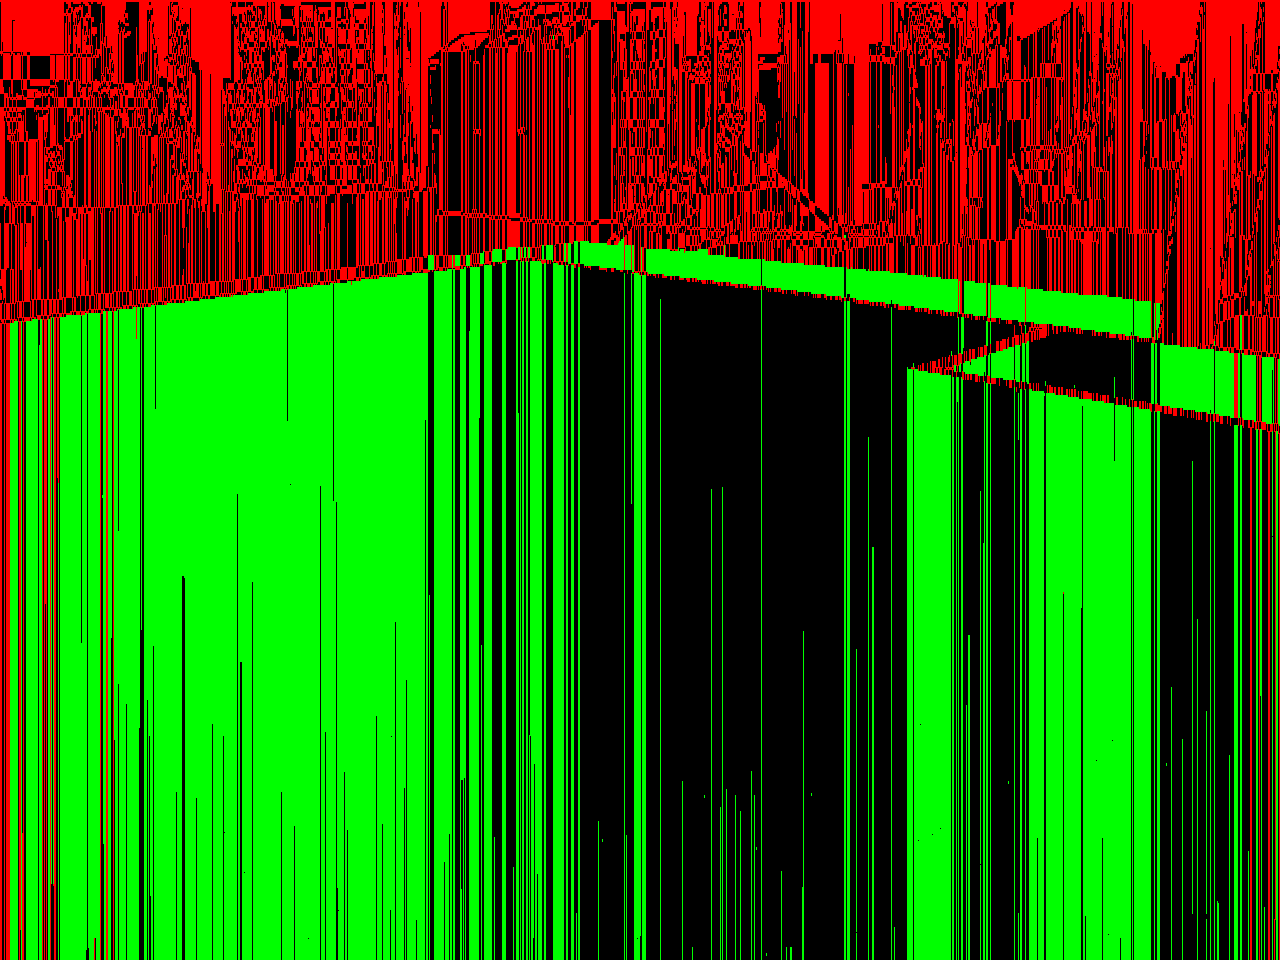
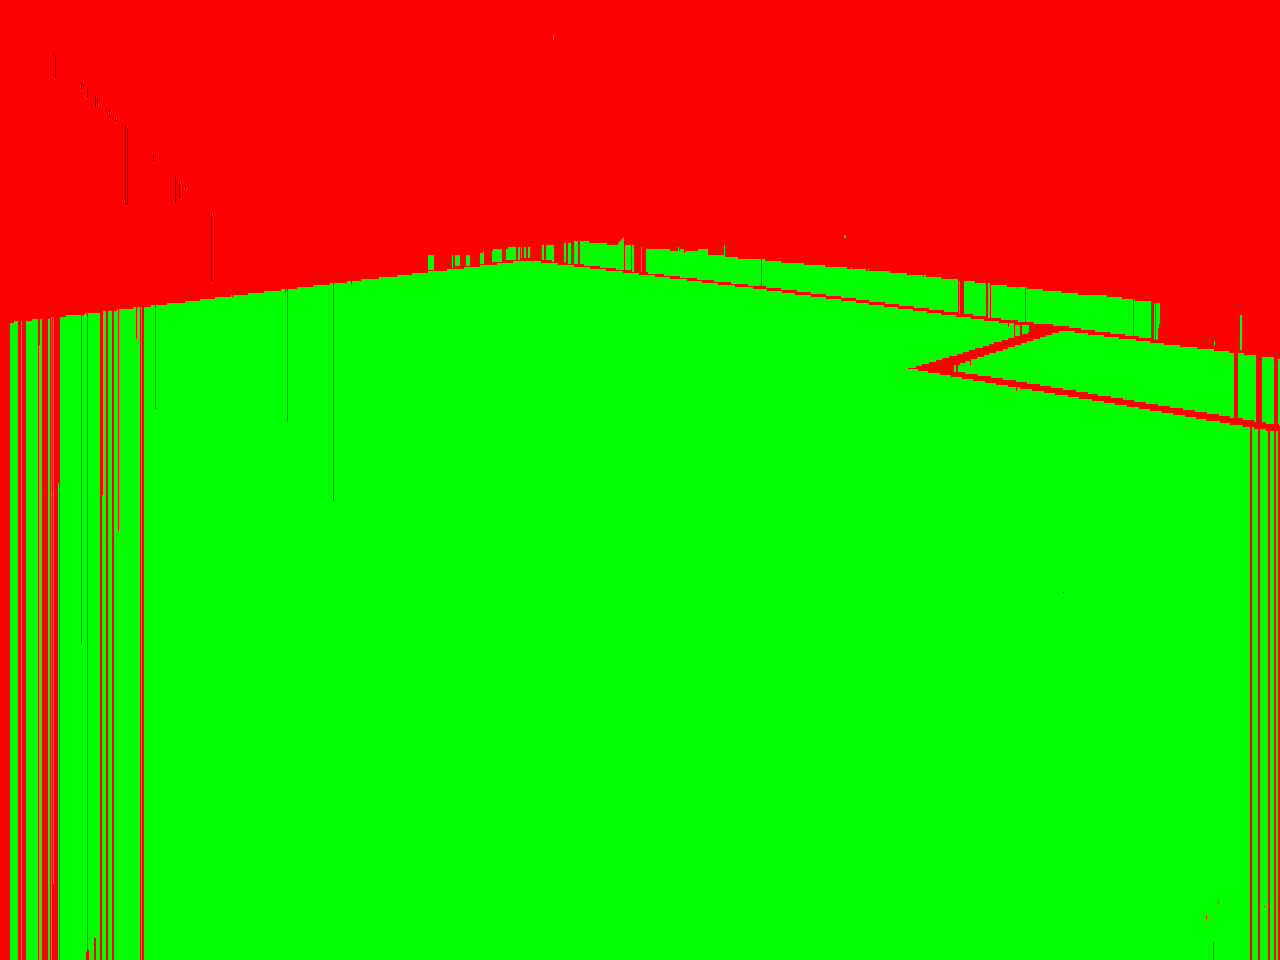
found bug

diff --git a/main.cpp b/main.cpp
@@ -275,7 +275,7 @@ void classifyRegions(cv::Mat &image, cv::Mat &imageRegions, std::vector<cv::Vec2
         //        endRegion = nextX;
         //update the last vector to connect contiguous regions to hold the vector small
         if(fieldRegions.size()>0){
-          if(fieldRegions[fieldRegions.size()-1][3] = currentX && fieldRegions[fieldRegions.size()-1][3]==currentColumn) {
+          if(fieldRegions[fieldRegions.size()-1][3] == currentX && fieldRegions[fieldRegions.size()-1][3]==currentColumn) {
             fieldRegions[fieldRegions.size()-1][3] = nextX;
             //cout << "updated field" << endl;
           }
@@ -295,7 +295,7 @@ void classifyRegions(cv::Mat &image, cv::Mat &imageRegions, std::vector<cv::Vec2
       //      }
       else{
         if(unknownRegions.size()>0){
-          if(unknownRegions[unknownRegions.size()-1][3] = currentX && unknownRegions[unknownRegions.size()-1][3]==currentColumn) {
+          if(unknownRegions[unknownRegions.size()-1][3] == currentX && unknownRegions[unknownRegions.size()-1][3]==currentColumn) {
             unknownRegions[unknownRegions.size()-1][3] = nextX;
             //cout << "updated unknown" << endl;
           }
